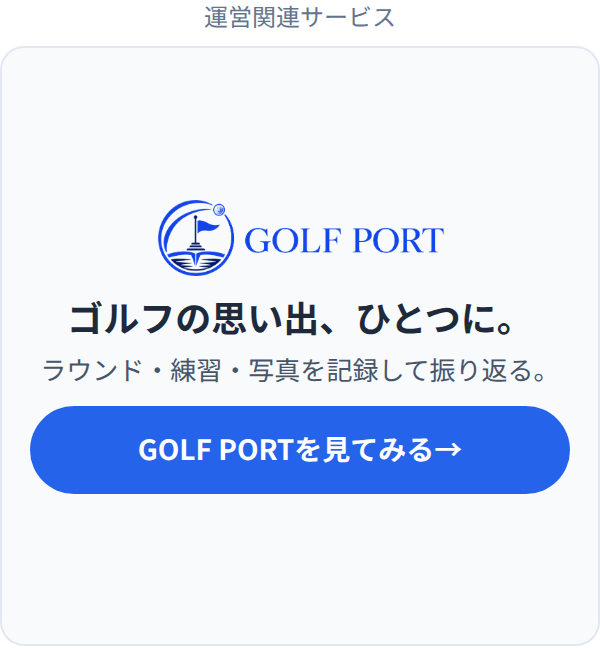
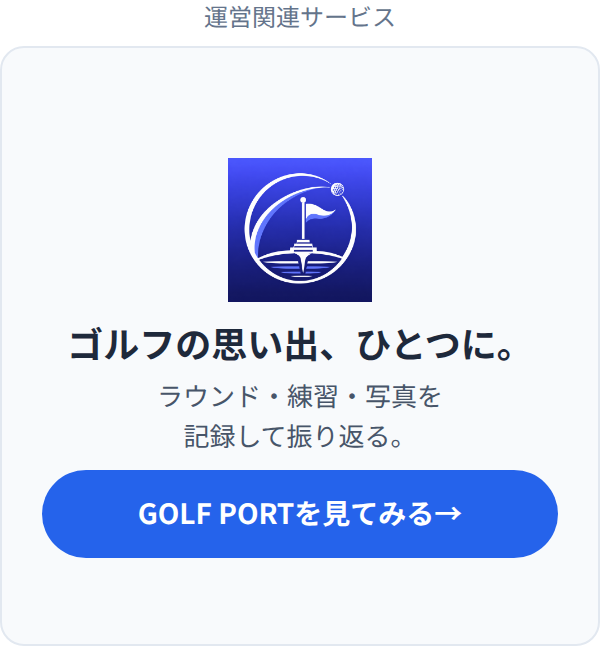
feat(brand): 正式ロゴ/アイコンを無加工でWPメディア登録し配信(1年immutable)・1:1はアイコン、横長はロゴ
- golfport.top の logo.png/icon.png をそのまま登録(配信md5=原本md5)。再保存・変換・描画なし
- コピー/CTA/UTM/utm_content/GA4イベント/50%可視/1ページ1枠/対象/停止制御は不変

Claude-Session: https://claude.ai/code/session_01NJY31QoYUnZnHQRCVfbWb3

Changed region(s): [[0.03, 0.2469, 0.96, 0.8642]]

diff --git a/docs/golfport_banner_brand/review/mobile.html b/docs/golfport_banner_brand/review/mobile.html
@@ -19,8 +19,8 @@
 /* トップ右サイドバー用 1:1(正方形)。上のモバイル規則より後ろに置き、詳細度で確実に上書きする。 */
 .kpop-ghb.kpop-ghb--square{width:100%;max-width:300px;min-height:0;margin:0 auto}
 .kpop-ghb.kpop-ghb--square .kpop-ghb-label{text-align:center}
-.kpop-ghb.kpop-ghb--square .kpop-ghb-link{flex-direction:column;flex-wrap:nowrap;justify-content:center;text-align:center;gap:8px;width:100%;aspect-ratio:1/1;min-height:0;padding:14px}
-.kpop-ghb.kpop-ghb--square .kpop-ghb-logo{height:38px;align-self:center;margin:0 auto 6px}
+.kpop-ghb.kpop-ghb--square .kpop-ghb-link{flex-direction:column;flex-wrap:nowrap;justify-content:center;text-align:center;gap:8px;width:100%;aspect-ratio:1/1;min-height:0;padding:36px 20px 24px}
+.kpop-ghb.kpop-ghb--square .kpop-ghb-icon{display:block;width:72px;height:72px;align-self:center;margin:0 auto 6px}
 .kpop-ghb.kpop-ghb--square .kpop-ghb-text{flex:0 0 auto;align-items:center;gap:3px;width:100%}
 .kpop-ghb.kpop-ghb--square .kpop-ghb-title{font-size:18px}
 .kpop-ghb.kpop-ghb--square .kpop-ghb-sub{font-size:13px;line-height:1.5}
@@ -28,8 +28,8 @@
 	<p class="kpop-ghb-label">運営関連サービスのご案内</p>
 	<a class="kpop-ghb-link" href="https://golfport.top/record?utm_source=kpopjournal&amp;utm_medium=house_banner&amp;utm_campaign=golf_record_202611&amp;utm_content=article_footer">
 		<span class="kpop-ghb-text">
-			<img class="kpop-ghb-logo" src="https://golfport.top/logo.png" alt="ゴルフポート GOLF PORT" width="1637" height="435" loading="lazy" decoding="async">
-			<span class="kpop-ghb-title"><span class="kpop-ghb-ph">ゴルフの思い出、</span><span class="kpop-ghb-ph">ひとつに。</span></span>
+						<img class="kpop-ghb-logo" src="https://www.kpopjournal.tokyo/wp-content/uploads/2026/11/logo.png" alt="ゴルフポート GOLF PORT" width="1637" height="435" loading="lazy" decoding="async">
+						<span class="kpop-ghb-title"><span class="kpop-ghb-ph">ゴルフの思い出、</span><span class="kpop-ghb-ph">ひとつに。</span></span>
 			<span class="kpop-ghb-sub"><span class="kpop-ghb-ph">ラウンド・練習・写真を</span><span class="kpop-ghb-ph">記録して振り返る。</span></span>
 		</span>
 		<span class="kpop-ghb-cta">GOLF PORTを見てみる<span aria-hidden="true"> →</span></span>
@@ -38,8 +38,8 @@
 	<p class="kpop-ghb-label">運営関連サービス</p>
 	<a class="kpop-ghb-link" href="https://golfport.top/record?utm_source=kpopjournal&amp;utm_medium=house_banner&amp;utm_campaign=golf_record_202611&amp;utm_content=top_sidebar">
 		<span class="kpop-ghb-text">
-			<img class="kpop-ghb-logo" src="https://golfport.top/logo.png" alt="ゴルフポート GOLF PORT" width="1637" height="435" loading="lazy" decoding="async">
-			<span class="kpop-ghb-title"><span class="kpop-ghb-ph">ゴルフの思い出、</span><span class="kpop-ghb-ph">ひとつに。</span></span>
+						<img class="kpop-ghb-icon" src="https://www.kpopjournal.tokyo/wp-content/uploads/2026/11/icon.png" alt="ゴルフポート GOLF PORT" width="512" height="512" loading="lazy" decoding="async">
+						<span class="kpop-ghb-title"><span class="kpop-ghb-ph">ゴルフの思い出、</span><span class="kpop-ghb-ph">ひとつに。</span></span>
 			<span class="kpop-ghb-sub"><span class="kpop-ghb-ph">ラウンド・練習・写真を</span><span class="kpop-ghb-ph">記録して振り返る。</span></span>
 		</span>
 		<span class="kpop-ghb-cta">GOLF PORTを見てみる<span aria-hidden="true"> →</span></span>

diff --git a/docs/golfport_banner_brand/review/pc.html b/docs/golfport_banner_brand/review/pc.html
@@ -19,8 +19,8 @@
 /* トップ右サイドバー用 1:1(正方形)。上のモバイル規則より後ろに置き、詳細度で確実に上書きする。 */
 .kpop-ghb.kpop-ghb--square{width:100%;max-width:300px;min-height:0;margin:0 auto}
 .kpop-ghb.kpop-ghb--square .kpop-ghb-label{text-align:center}
-.kpop-ghb.kpop-ghb--square .kpop-ghb-link{flex-direction:column;flex-wrap:nowrap;justify-content:center;text-align:center;gap:8px;width:100%;aspect-ratio:1/1;min-height:0;padding:14px}
-.kpop-ghb.kpop-ghb--square .kpop-ghb-logo{height:38px;align-self:center;margin:0 auto 6px}
+.kpop-ghb.kpop-ghb--square .kpop-ghb-link{flex-direction:column;flex-wrap:nowrap;justify-content:center;text-align:center;gap:8px;width:100%;aspect-ratio:1/1;min-height:0;padding:36px 20px 24px}
+.kpop-ghb.kpop-ghb--square .kpop-ghb-icon{display:block;width:72px;height:72px;align-self:center;margin:0 auto 6px}
 .kpop-ghb.kpop-ghb--square .kpop-ghb-text{flex:0 0 auto;align-items:center;gap:3px;width:100%}
 .kpop-ghb.kpop-ghb--square .kpop-ghb-title{font-size:18px}
 .kpop-ghb.kpop-ghb--square .kpop-ghb-sub{font-size:13px;line-height:1.5}
@@ -28,8 +28,8 @@
 	<p class="kpop-ghb-label">運営関連サービスのご案内</p>
 	<a class="kpop-ghb-link" href="https://golfport.top/record?utm_source=kpopjournal&amp;utm_medium=house_banner&amp;utm_campaign=golf_record_202611&amp;utm_content=article_footer">
 		<span class="kpop-ghb-text">
-			<img class="kpop-ghb-logo" src="https://golfport.top/logo.png" alt="ゴルフポート GOLF PORT" width="1637" height="435" loading="lazy" decoding="async">
-			<span class="kpop-ghb-title"><span class="kpop-ghb-ph">ゴルフの思い出、</span><span class="kpop-ghb-ph">ひとつに。</span></span>
+						<img class="kpop-ghb-logo" src="https://www.kpopjournal.tokyo/wp-content/uploads/2026/11/logo.png" alt="ゴルフポート GOLF PORT" width="1637" height="435" loading="lazy" decoding="async">
+						<span class="kpop-ghb-title"><span class="kpop-ghb-ph">ゴルフの思い出、</span><span class="kpop-ghb-ph">ひとつに。</span></span>
 			<span class="kpop-ghb-sub"><span class="kpop-ghb-ph">ラウンド・練習・写真を</span><span class="kpop-ghb-ph">記録して振り返る。</span></span>
 		</span>
 		<span class="kpop-ghb-cta">GOLF PORTを見てみる<span aria-hidden="true"> →</span></span>
@@ -38,8 +38,8 @@
 	<p class="kpop-ghb-label">運営関連サービス</p>
 	<a class="kpop-ghb-link" href="https://golfport.top/record?utm_source=kpopjournal&amp;utm_medium=house_banner&amp;utm_campaign=golf_record_202611&amp;utm_content=top_sidebar">
 		<span class="kpop-ghb-text">
-			<img class="kpop-ghb-logo" src="https://golfport.top/logo.png" alt="ゴルフポート GOLF PORT" width="1637" height="435" loading="lazy" decoding="async">
-			<span class="kpop-ghb-title"><span class="kpop-ghb-ph">ゴルフの思い出、</span><span class="kpop-ghb-ph">ひとつに。</span></span>
+						<img class="kpop-ghb-icon" src="https://www.kpopjournal.tokyo/wp-content/uploads/2026/11/icon.png" alt="ゴルフポート GOLF PORT" width="512" height="512" loading="lazy" decoding="async">
+						<span class="kpop-ghb-title"><span class="kpop-ghb-ph">ゴルフの思い出、</span><span class="kpop-ghb-ph">ひとつに。</span></span>
 			<span class="kpop-ghb-sub"><span class="kpop-ghb-ph">ラウンド・練習・写真を</span><span class="kpop-ghb-ph">記録して振り返る。</span></span>
 		</span>
 		<span class="kpop-ghb-cta">GOLF PORTを見てみる<span aria-hidden="true"> →</span></span>

diff --git a/docs/golfport_banner_brand/review/banner_markup.html b/docs/golfport_banner_brand/review/banner_markup.html
@@ -3,8 +3,8 @@
 	<p class="kpop-ghb-label">運営関連サービスのご案内</p>
 	<a class="kpop-ghb-link" href="https://golfport.top/record?utm_source=kpopjournal&amp;utm_medium=house_banner&amp;utm_campaign=golf_record_202611&amp;utm_content=article_footer">
 		<span class="kpop-ghb-text">
-			<img class="kpop-ghb-logo" src="https://golfport.top/logo.png" alt="ゴルフポート GOLF PORT" width="1637" height="435" loading="lazy" decoding="async">
-			<span class="kpop-ghb-title"><span class="kpop-ghb-ph">ゴルフの思い出、</span><span class="kpop-ghb-ph">ひとつに。</span></span>
+						<img class="kpop-ghb-logo" src="https://www.kpopjournal.tokyo/wp-content/uploads/2026/11/logo.png" alt="ゴルフポート GOLF PORT" width="1637" height="435" loading="lazy" decoding="async">
+						<span class="kpop-ghb-title"><span class="kpop-ghb-ph">ゴルフの思い出、</span><span class="kpop-ghb-ph">ひとつに。</span></span>
 			<span class="kpop-ghb-sub"><span class="kpop-ghb-ph">ラウンド・練習・写真を</span><span class="kpop-ghb-ph">記録して振り返る。</span></span>
 		</span>
 		<span class="kpop-ghb-cta">GOLF PORTを見てみる<span aria-hidden="true"> →</span></span>
@@ -16,8 +16,8 @@
 	<p class="kpop-ghb-label">運営関連サービス</p>
 	<a class="kpop-ghb-link" href="https://golfport.top/record?utm_source=kpopjournal&amp;utm_medium=house_banner&amp;utm_campaign=golf_record_202611&amp;utm_content=top_sidebar">
 		<span class="kpop-ghb-text">
-			<img class="kpop-ghb-logo" src="https://golfport.top/logo.png" alt="ゴルフポート GOLF PORT" width="1637" height="435" loading="lazy" decoding="async">
-			<span class="kpop-ghb-title"><span class="kpop-ghb-ph">ゴルフの思い出、</span><span class="kpop-ghb-ph">ひとつに。</span></span>
+						<img class="kpop-ghb-icon" src="https://www.kpopjournal.tokyo/wp-content/uploads/2026/11/icon.png" alt="ゴルフポート GOLF PORT" width="512" height="512" loading="lazy" decoding="async">
+						<span class="kpop-ghb-title"><span class="kpop-ghb-ph">ゴルフの思い出、</span><span class="kpop-ghb-ph">ひとつに。</span></span>
 			<span class="kpop-ghb-sub"><span class="kpop-ghb-ph">ラウンド・練習・写真を</span><span class="kpop-ghb-ph">記録して振り返る。</span></span>
 		</span>
 		<span class="kpop-ghb-cta">GOLF PORTを見てみる<span aria-hidden="true"> →</span></span>

diff --git a/docs/golfport_banner_brand/review/banner.css b/docs/golfport_banner_brand/review/banner.css
@@ -19,8 +19,8 @@
 /* トップ右サイドバー用 1:1(正方形)。上のモバイル規則より後ろに置き、詳細度で確実に上書きする。 */
 .kpop-ghb.kpop-ghb--square{width:100%;max-width:300px;min-height:0;margin:0 auto}
 .kpop-ghb.kpop-ghb--square .kpop-ghb-label{text-align:center}
-.kpop-ghb.kpop-ghb--square .kpop-ghb-link{flex-direction:column;flex-wrap:nowrap;justify-content:center;text-align:center;gap:8px;width:100%;aspect-ratio:1/1;min-height:0;padding:14px}
-.kpop-ghb.kpop-ghb--square .kpop-ghb-logo{height:38px;align-self:center;margin:0 auto 6px}
+.kpop-ghb.kpop-ghb--square .kpop-ghb-link{flex-direction:column;flex-wrap:nowrap;justify-content:center;text-align:center;gap:8px;width:100%;aspect-ratio:1/1;min-height:0;padding:36px 20px 24px}
+.kpop-ghb.kpop-ghb--square .kpop-ghb-icon{display:block;width:72px;height:72px;align-self:center;margin:0 auto 6px}
 .kpop-ghb.kpop-ghb--square .kpop-ghb-text{flex:0 0 auto;align-items:center;gap:3px;width:100%}
 .kpop-ghb.kpop-ghb--square .kpop-ghb-title{font-size:18px}
 .kpop-ghb.kpop-ghb--square .kpop-ghb-sub{font-size:13px;line-height:1.5}

diff --git a/themes/generatepress-kpop/golfport-house-banner.php b/themes/generatepress-kpop/golfport-house-banner.php
@@ -50,11 +50,16 @@ function kpop_ghb_def( $placement = 'article_footer' ) {
 		// スマホで「振/り返る。」のように不自然な位置で改行されないよう、句の境目でだけ折り返す(結合した文字列は sub と同一)。
 		'sub_parts' => array( 'ラウンド・練習・写真を', '記録して振り返る。' ),
 		'cta'      => 'GOLF PORTを見てみる',
-		// GOLF PORT 正式ロゴ(横組み 1637×435 透過PNG)を、再保存・再描画・変形・色変更せず本番の正式ファイルのまま参照する。
+		// GOLF PORT 正式ロゴ(横組み 1637×435 透過PNG)と正式アイコン(512×512)。再保存・再描画・変形・色変更なし。
+		// golfport.top/logo.png・icon.png を**無加工のまま**WPメディアに登録した実体(md5が原本と一致)。1年immutableでキャッシュされ、
+		// GOLF PORTの稼働に依存しない。ロゴを差し替えるときは同じ手順で再登録しURLを更新する(docs/golfport_banner_brand/README.md)。
 		// 縦組み/白抜き/簡略版は存在しない(作らない)。規定: ロゴの高さの半分以上の余白・白または淡色の無地背景。
-		'logo_src' => 'https://golfport.top/logo.png',
+		'logo_src' => 'https://www.kpopjournal.tokyo/wp-content/uploads/2026/11/logo.png',
 		'logo_w'   => 1637,
 		'logo_h'   => 435,
+		'icon_src' => 'https://www.kpopjournal.tokyo/wp-content/uploads/2026/11/icon.png',
+		'icon_w'   => 512,
+		'icon_h'   => 512,
 		'logo_alt' => 'ゴルフポート GOLF PORT',
 	);
 }
@@ -170,8 +175,8 @@ function kpop_ghb_assets() {
 /* トップ右サイドバー用 1:1(正方形)。上のモバイル規則より後ろに置き、詳細度で確実に上書きする。 */
 .kpop-ghb.kpop-ghb--square{width:100%;max-width:300px;min-height:0;margin:0 auto}
 .kpop-ghb.kpop-ghb--square .kpop-ghb-label{text-align:center}
-.kpop-ghb.kpop-ghb--square .kpop-ghb-link{flex-direction:column;flex-wrap:nowrap;justify-content:center;text-align:center;gap:8px;width:100%;aspect-ratio:1/1;min-height:0;padding:14px}
-.kpop-ghb.kpop-ghb--square .kpop-ghb-logo{height:38px;align-self:center;margin:0 auto 6px}
+.kpop-ghb.kpop-ghb--square .kpop-ghb-link{flex-direction:column;flex-wrap:nowrap;justify-content:center;text-align:center;gap:8px;width:100%;aspect-ratio:1/1;min-height:0;padding:36px 20px 24px}
+.kpop-ghb.kpop-ghb--square .kpop-ghb-icon{display:block;width:72px;height:72px;align-self:center;margin:0 auto 6px}
 .kpop-ghb.kpop-ghb--square .kpop-ghb-text{flex:0 0 auto;align-items:center;gap:3px;width:100%}
 .kpop-ghb.kpop-ghb--square .kpop-ghb-title{font-size:18px}
 .kpop-ghb.kpop-ghb--square .kpop-ghb-sub{font-size:13px;line-height:1.5}
@@ -224,7 +229,11 @@ function kpop_ghb_render( $cfg, $placement = 'article_footer' ) {
 	<p class="kpop-ghb-label"><?php echo esc_html( $label ); ?></p>
 	<a class="kpop-ghb-link" href="<?php echo esc_url( $url ); ?>">
 		<span class="kpop-ghb-text">
+			<?php if ( $square ) : ?>
+			<img class="kpop-ghb-icon" src="<?php echo esc_url( $d['icon_src'] ); ?>" alt="<?php echo esc_attr( $d['logo_alt'] ); ?>" width="<?php echo (int) $d['icon_w']; ?>" height="<?php echo (int) $d['icon_h']; ?>" loading="lazy" decoding="async">
+			<?php else : ?>
 			<img class="kpop-ghb-logo" src="<?php echo esc_url( $d['logo_src'] ); ?>" alt="<?php echo esc_attr( $d['logo_alt'] ); ?>" width="<?php echo (int) $d['logo_w']; ?>" height="<?php echo (int) $d['logo_h']; ?>" loading="lazy" decoding="async">
+			<?php endif; ?>
 			<span class="kpop-ghb-title"><?php foreach ( $d['title_parts'] as $kpop_ghb_part ) { echo '<span class="kpop-ghb-ph">' . esc_html( $kpop_ghb_part ) . '</span>'; } ?></span>
 			<span class="kpop-ghb-sub"><?php foreach ( $d['sub_parts'] as $kpop_ghb_part ) { echo '<span class="kpop-ghb-ph">' . esc_html( $kpop_ghb_part ) . '</span>'; } ?></span>
 		</span>

diff --git a/tests/test_golfport_house_banner.py b/tests/test_golfport_house_banner.py
@@ -82,8 +82,8 @@ $out['second']=kpop_ghb_render($cfg);
         assert banned not in html, banned
     for banned in ("nofollow", "sponsored", "noreferrer", "_blank", "utm_term"):
         assert banned not in html, banned
-    # 正式ロゴ: 本番の logo.png そのもの(再保存/再描画/変形/色変更なし)
-    assert html.count('<img class="kpop-ghb-logo" src="https://golfport.top/logo.png"') == 1
+    # 正式ロゴ: golfport.top/logo.png を無加工でWPメディアに登録した実体(md5が原本と一致・再保存/再描画/変形/色変更なし)
+    assert html.count('<img class="kpop-ghb-logo" src="https://www.kpopjournal.tokyo/wp-content/uploads/2026/11/logo.png"') == 1
     assert 'alt="ゴルフポート GOLF PORT"' in html and 'width="1637" height="435"' in html  # 縦横比(1637:435)を属性で固定
     assert 'loading="lazy"' in html
     assert "<svg" not in html and "kpop-ghb-art" not in html  # 自前のイラスト/ロゴ描画なし
@@ -223,3 +223,20 @@ $out['footer']=kpop_ghb_render($cfg,'article_footer');
     assert "background:#f8fafc" in css and "gradient" not in css and "url(" not in css
     assert "padding:20px" in css                                # >=15px
     assert "background:#2563eb" in css                          # CTA=K-POP JOURNALのサイト色(GOLF PORTのブランド色としては扱わない)
+
+
+def test_square_uses_official_icon_and_horizontal_uses_logo_with_ratio_locked():
+    out = run("""
+$cfg=kpop_ghb_config(array('enabled'=>true));
+$out['sq']=kpop_ghb_render($cfg,'top_sidebar'); $out['hz']=kpop_ghb_render($cfg,'event_page');
+""")
+    sq, hz = out["sq"], out["hz"]
+    assert '<img class="kpop-ghb-icon" src="https://www.kpopjournal.tokyo/wp-content/uploads/2026/11/icon.png"' in sq
+    assert 'width="512" height="512"' in sq and "kpop-ghb-logo\" src" not in sq   # 1:1は正方形のアイコン
+    assert '<img class="kpop-ghb-logo"' in hz and 'width="1637" height="435"' in hz and "kpop-ghb-icon\" src" not in hz
+    css = sq[sq.index("<style>"):sq.index("</style>")]
+    assert "width:72px;height:72px" in css                      # 正方形のまま(引き伸ばさない)
+    assert "padding:36px 20px 24px" in css                      # アイコン高さ72pxの半分(36px)以上の上余白
+    icon_rules = " ".join(__import__("re").findall(r"[^{}]*kpop-ghb-icon[^{}]*\{[^}]*\}", css))
+    for banned in ("transform", "filter", "object-fit", "opacity", "clip", "border-radius", "mask", "rotate", "scale"):
+        assert banned not in icon_rules, banned
